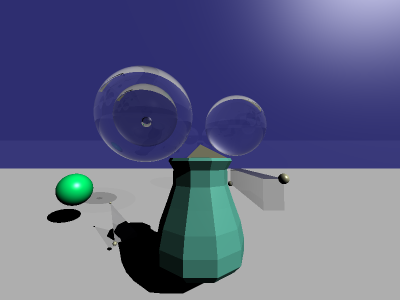
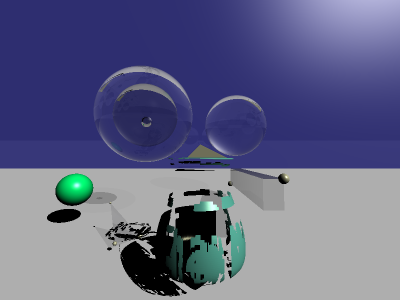
kd-tree (with bug)

Changed region(s): [[0.27, 0.51, 0.63, 0.99], [0.33, 0.93, 0.36, 0.96], [0.3, 0.9, 0.33, 0.93]]

diff --git a/mesh_object.cpp b/mesh_object.cpp
@@ -8,7 +8,7 @@ mesh_object::mesh_object(const mesh &m)
     _n(m.vertices.size()), _caches(m.surfaces.size())
 {
     std::vector<triangle_index> kd_points;
-    std::vector<vector_sum_count> sum_count(_mesh.vertices.size());
+    std::vector<double> count(_mesh.vertices.size());
     for (std::size_t i = 0; i < _tri.size(); ++i)
     {
         const vector3di &tri = _tri[i];
@@ -27,18 +27,18 @@ mesh_object::mesh_object(const mesh &m)
         // make normal vector and its count
         double area = cache.E1xE2.length() / 2.0; // = weight
         vector3df weighted_n = cache.n * area;
-        sum_count[tri.x].count += area;
-        sum_count[tri.x].sum += weighted_n;
-        sum_count[tri.y].count += area;
-        sum_count[tri.y].sum += weighted_n;
-        sum_count[tri.z].count += area;
-        sum_count[tri.z].sum += weighted_n;
+        count[tri.x] += area;
+        _n[tri.x] += weighted_n;
+        count[tri.y] += area;
+        _n[tri.y] += weighted_n;
+        count[tri.z] += area;
+        _n[tri.z] += weighted_n;
     }
 
     // calc normal vectors of vertices
     for (std::size_t i = 0; i < _v.size(); ++i)
     {
-        _n[i] = sum_count[i].sum / sum_count[i].count;
+        _n[i] = _n[i] / count[i];
     }
 
     printf("building kd-tree\n");
@@ -47,45 +47,46 @@ mesh_object::mesh_object(const mesh &m)
 
 intersect_result mesh_object::intersect(const ray &r) const
 {
-    // TODO: use kd-tree
-    triangle_intersect_result result = triangle_intersect_result::failed;
-    for (std::size_t i = 0; i < _tri.size(); ++i)
+    std::vector<intersect_result> results = intersect_all(r);
+    intersect_result *closest_result = nullptr;
+
+    for (intersect_result &ir : results)
     {
-        triangle_intersect_result tir = _intersect_triangle(r, i);
-        if (!tir.succeeded)
+        if (!closest_result || ir.distance < closest_result->distance)
         {
-            continue;
-        }
-        if (!result.succeeded || tir.t < result.t)
-        {
-            result = tir;
+            closest_result = &ir;
         }
     }
 
-    if (!result.succeeded)
+    if (closest_result)
     {
-        return intersect_result::failed;
+        return *closest_result;
     }
     else
     {
-        return intersect_result(r.origin + r.direction * result.t,
-                                get_normal_vector(result), result.t);
+        return intersect_result::failed;
     }
 }
 
 std::vector<intersect_result> mesh_object::intersect_all(const ray &r) const
 {
-    std::vector<intersect_result> result;
-    // TODO: use kd-tree
+    // deduplicate
+    std::vector<triangle_intersect_result> tirs = _intersect_all(r, _kdt.root.get());
+    std::vector<bool> added(_tri.size());
     for (std::size_t i = 0; i < _tri.size(); ++i)
     {
-        triangle_intersect_result tir = _intersect_triangle(r, i);
-        if (!tir.succeeded)
+        added[i] = false;
+    }
+
+    std::vector<intersect_result> result;
+    for (const auto &tir : tirs)
+    {
+        if (!added[tir.index])
         {
-            continue;
+            intersect_result ir(r.origin + r.direction * tir.t, get_normal_vector(tir), tir.t);
+            result.push_back(ir);
+            added[tir.index] = true;
         }
-        intersect_result ir(r.origin + r.direction * tir.t, get_normal_vector(tir), tir.t);
-        result.push_back(ir);
     }
 
     return result;
@@ -138,6 +139,49 @@ vector3df mesh_object::get_normal_vector(const triangle_intersect_result &tir) c
     const vector3df &n_a = _n[tri.x], &n_b = _n[tri.y], &n_c = _n[tri.z];
     vector3df n = n_a * tir.alpha + n_b * tir.beta + n_c * tir.gamma;
     n = n.normalize();
-    n = _caches[tir.index].n;
+    n = _caches[tir.index].n; // FIXME
     return n;
+}
+
+std::vector<mesh_object::triangle_intersect_result>
+mesh_object::_intersect_all(const ray &r, kd_tree<triangle_index>::node *node) const
+{
+    std::vector<triangle_intersect_result> result;
+    if (!node || !node->range.intersect(r).succeeded)
+    {
+        return result;
+    }
+    if (node->left && node->right)
+    {
+        std::vector<triangle_intersect_result> left_result
+            = _intersect_all(r, node->left);
+        std::vector<triangle_intersect_result> right_result
+            = _intersect_all(r, node->right);
+
+        // merge
+        result.insert(result.end(), left_result.begin(), left_result.end());
+        result.insert(result.end(), right_result.begin(), right_result.end());
+        return result;
+    }
+    else if (node->left)
+    {
+        return _intersect_all(r, node->left);
+    }
+    else if (node->right)
+    {
+        return _intersect_all(r, node->right);
+    }
+    else
+    {
+        for (std::size_t i = 0; i < node->size; ++i)
+        {
+            triangle_intersect_result tir = _intersect_triangle(r, node->points[i]);
+            if (!tir.succeeded)
+            {
+                continue;
+            }
+            result.push_back(tir);
+        }
+    }
+    return result;
 }

diff --git a/kd_tree.hpp b/kd_tree.hpp
@@ -18,7 +18,7 @@ public:
     public:
         aa_cube range; // (x0, x1] x (y0, y1] x (z0, z1]
         node *left = nullptr, *right = nullptr;
-        unsigned int *points = nullptr;
+        unsigned int *points = nullptr; // just stores index
         unsigned int split_dim, size = 0;
 
         node(const aa_cube &range, std::size_t split_dim)
@@ -39,7 +39,7 @@ public:
             }
             if (points)
             {
-                delete points;
+                delete [] points;
             }
         }
     };
@@ -52,7 +52,7 @@ public:
 
     }
 
-    kd_tree(std::shared_ptr<node> &root, std::vector<T> &&points)
+    kd_tree(std::shared_ptr<node> root, std::vector<T> &&points)
         : root(root), points(std::move(points))
     {
 
@@ -65,7 +65,8 @@ private:
     template <typename TITERATOR>
     static node *_build(std::vector<T> &points, 
                         TITERATOR begin, TITERATOR end,
-                        const aa_cube &range, std::size_t split_dim);
+                        const aa_cube &range, const aa_cube &other_range,
+                        std::size_t split_dim, std::size_t depth);
 };
 
 template <typename T>
@@ -112,19 +113,21 @@ kd_tree<T> kd_tree<T>::build(TITERATOR begin, TITERATOR end)
 
     std::shared_ptr<typename kd_tree<T>::node> root(
         _build(points, numbers.begin(), numbers.end(),
-               aa_cube(min_v, max_v - min_v), 0));
-    return kd_tree(std::move(root), std::move(points));
+               aa_cube(min_v, max_v - min_v), aa_cube(vector3df::zero, vector3df::zero),
+               0, 0));
+    return kd_tree(root, std::move(points));
 }
 
 template <typename T>
 template <typename TITERATOR>
 typename kd_tree<T>::node *kd_tree<T>::_build(std::vector<T> &points,
                                               TITERATOR begin, TITERATOR end,
-                                              const aa_cube &range, std::size_t split_dim)
+                                              const aa_cube &range, const aa_cube &other_range,
+                                              std::size_t split_dim, std::size_t depth)
 {
-    std::size_t size = end - begin;
-    if (size < 128)
+    if (depth >= 32) // too deep
     {
+        // printf("too deep %llu\n", end - begin);
         return nullptr;
     }
 
@@ -133,12 +136,12 @@ typename kd_tree<T>::node *kd_tree<T>::_build(std::vector<T> &points,
     for (TITERATOR iter = begin; iter != end; ++iter)
     {
         T &point = points[*iter];
-        if (point.is_inside(range))
+        if (point.is_inside(range) /*|| point.not_inside(other_range)*/)
         {
             ++node_size;
         }
     }
-    if (node_size < 128)
+    if (depth > 0 && node_size < 128)
     {
         return nullptr;
     }
@@ -151,13 +154,13 @@ typename kd_tree<T>::node *kd_tree<T>::_build(std::vector<T> &points,
     for (TITERATOR iter = begin; iter != end; ++iter)
     {
         T &point = points[*iter];
-        if (point.is_inside(range))
+        if (point.is_inside(range) /*|| point.not_inside(other_range)*/)
         {
             node->points[i] = *iter;
             ++i;
         }
     }
-    //printf("kd node (%p) size=%lu\n", node, node_size);
+    // printf("kd node (%p) size=%lu\n", node, node_size);
 
     // split
     std::size_t median_index = node_size / 2;
@@ -192,10 +195,12 @@ typename kd_tree<T>::node *kd_tree<T>::_build(std::vector<T> &points,
         return nullptr;
     }
 
+    aa_cube left_cube(range.p, range.size - delta),
+            right_cube(range.p + delta, range.size - delta);
     node->left = _build(points, node->points, node->points + node->size,
-                        aa_cube(range.p, range.size - delta), next_dim);
+                        left_cube, right_cube, next_dim, depth + 1);
     node->right = _build(points, node->points, node->points + node->size,
-                         aa_cube(range.p + delta, range.size - delta), next_dim);
+                         right_cube, left_cube, next_dim, depth + 1);
     return node;
 }
 

diff --git a/mesh_object.h b/mesh_object.h
@@ -14,12 +14,6 @@ class mesh_object
     : public object
 {
 private:
-    struct vector_sum_count
-    {
-        vector3df sum = vector3df::zero;
-        double count = 0.0;
-    };
-
     struct triangle_cache
     {
         vector3df E1xE2, n;
@@ -66,6 +60,9 @@ public:
 private:
     triangle_intersect_result _intersect_triangle(const ray &r, std::size_t i) const;
     vector3df get_normal_vector(const triangle_intersect_result &tir) const;
+    // unsigned int _intersect(const ray &r, kd_tree<triangle_index>::node *node) const;
+    std::vector<triangle_intersect_result>
+    _intersect_all(const ray &r, kd_tree<triangle_index>::node *node) const;
 };
 
 // triangle with index, for kd-tree
@@ -133,6 +130,13 @@ public:
         return box.is_inside(mo->_v[mo->_tri[i].x]) ||
                box.is_inside(mo->_v[mo->_tri[i].y]) ||
                box.is_inside(mo->_v[mo->_tri[i].z]);
+    }
+
+    bool not_inside(const aa_cube &box) const
+    {
+        return !box.is_inside(mo->_v[mo->_tri[i].x]) ||
+               !box.is_inside(mo->_v[mo->_tri[i].y]) ||
+               !box.is_inside(mo->_v[mo->_tri[i].z]);
     }
 };
 

diff --git a/main.cpp b/main.cpp
@@ -141,7 +141,7 @@ int main(int argc, char **argv)
     tri2.diffuse = vector3df(0.5, 0.5, 0.5);
 
     bezier_curve bc = bezier_curve::load("bezier_curve.txt");
-    mesh m = bc.to_rotate_surface_mesh(0.001, 3.6);
+    mesh m = bc.to_rotate_surface_mesh(0.01, 0.36);
     for (auto &v : m.vertices)
     {
         v = v * 10.0;

diff --git a/aa_cube.h b/aa_cube.h
@@ -9,8 +9,8 @@
 class aa_cube
 {
 public:
-    const vector3df p;
-    const vector3df size;
+    vector3df p;
+    vector3df size;
 
 public:
     aa_cube(const vector3df &p, const vector3df &size);
